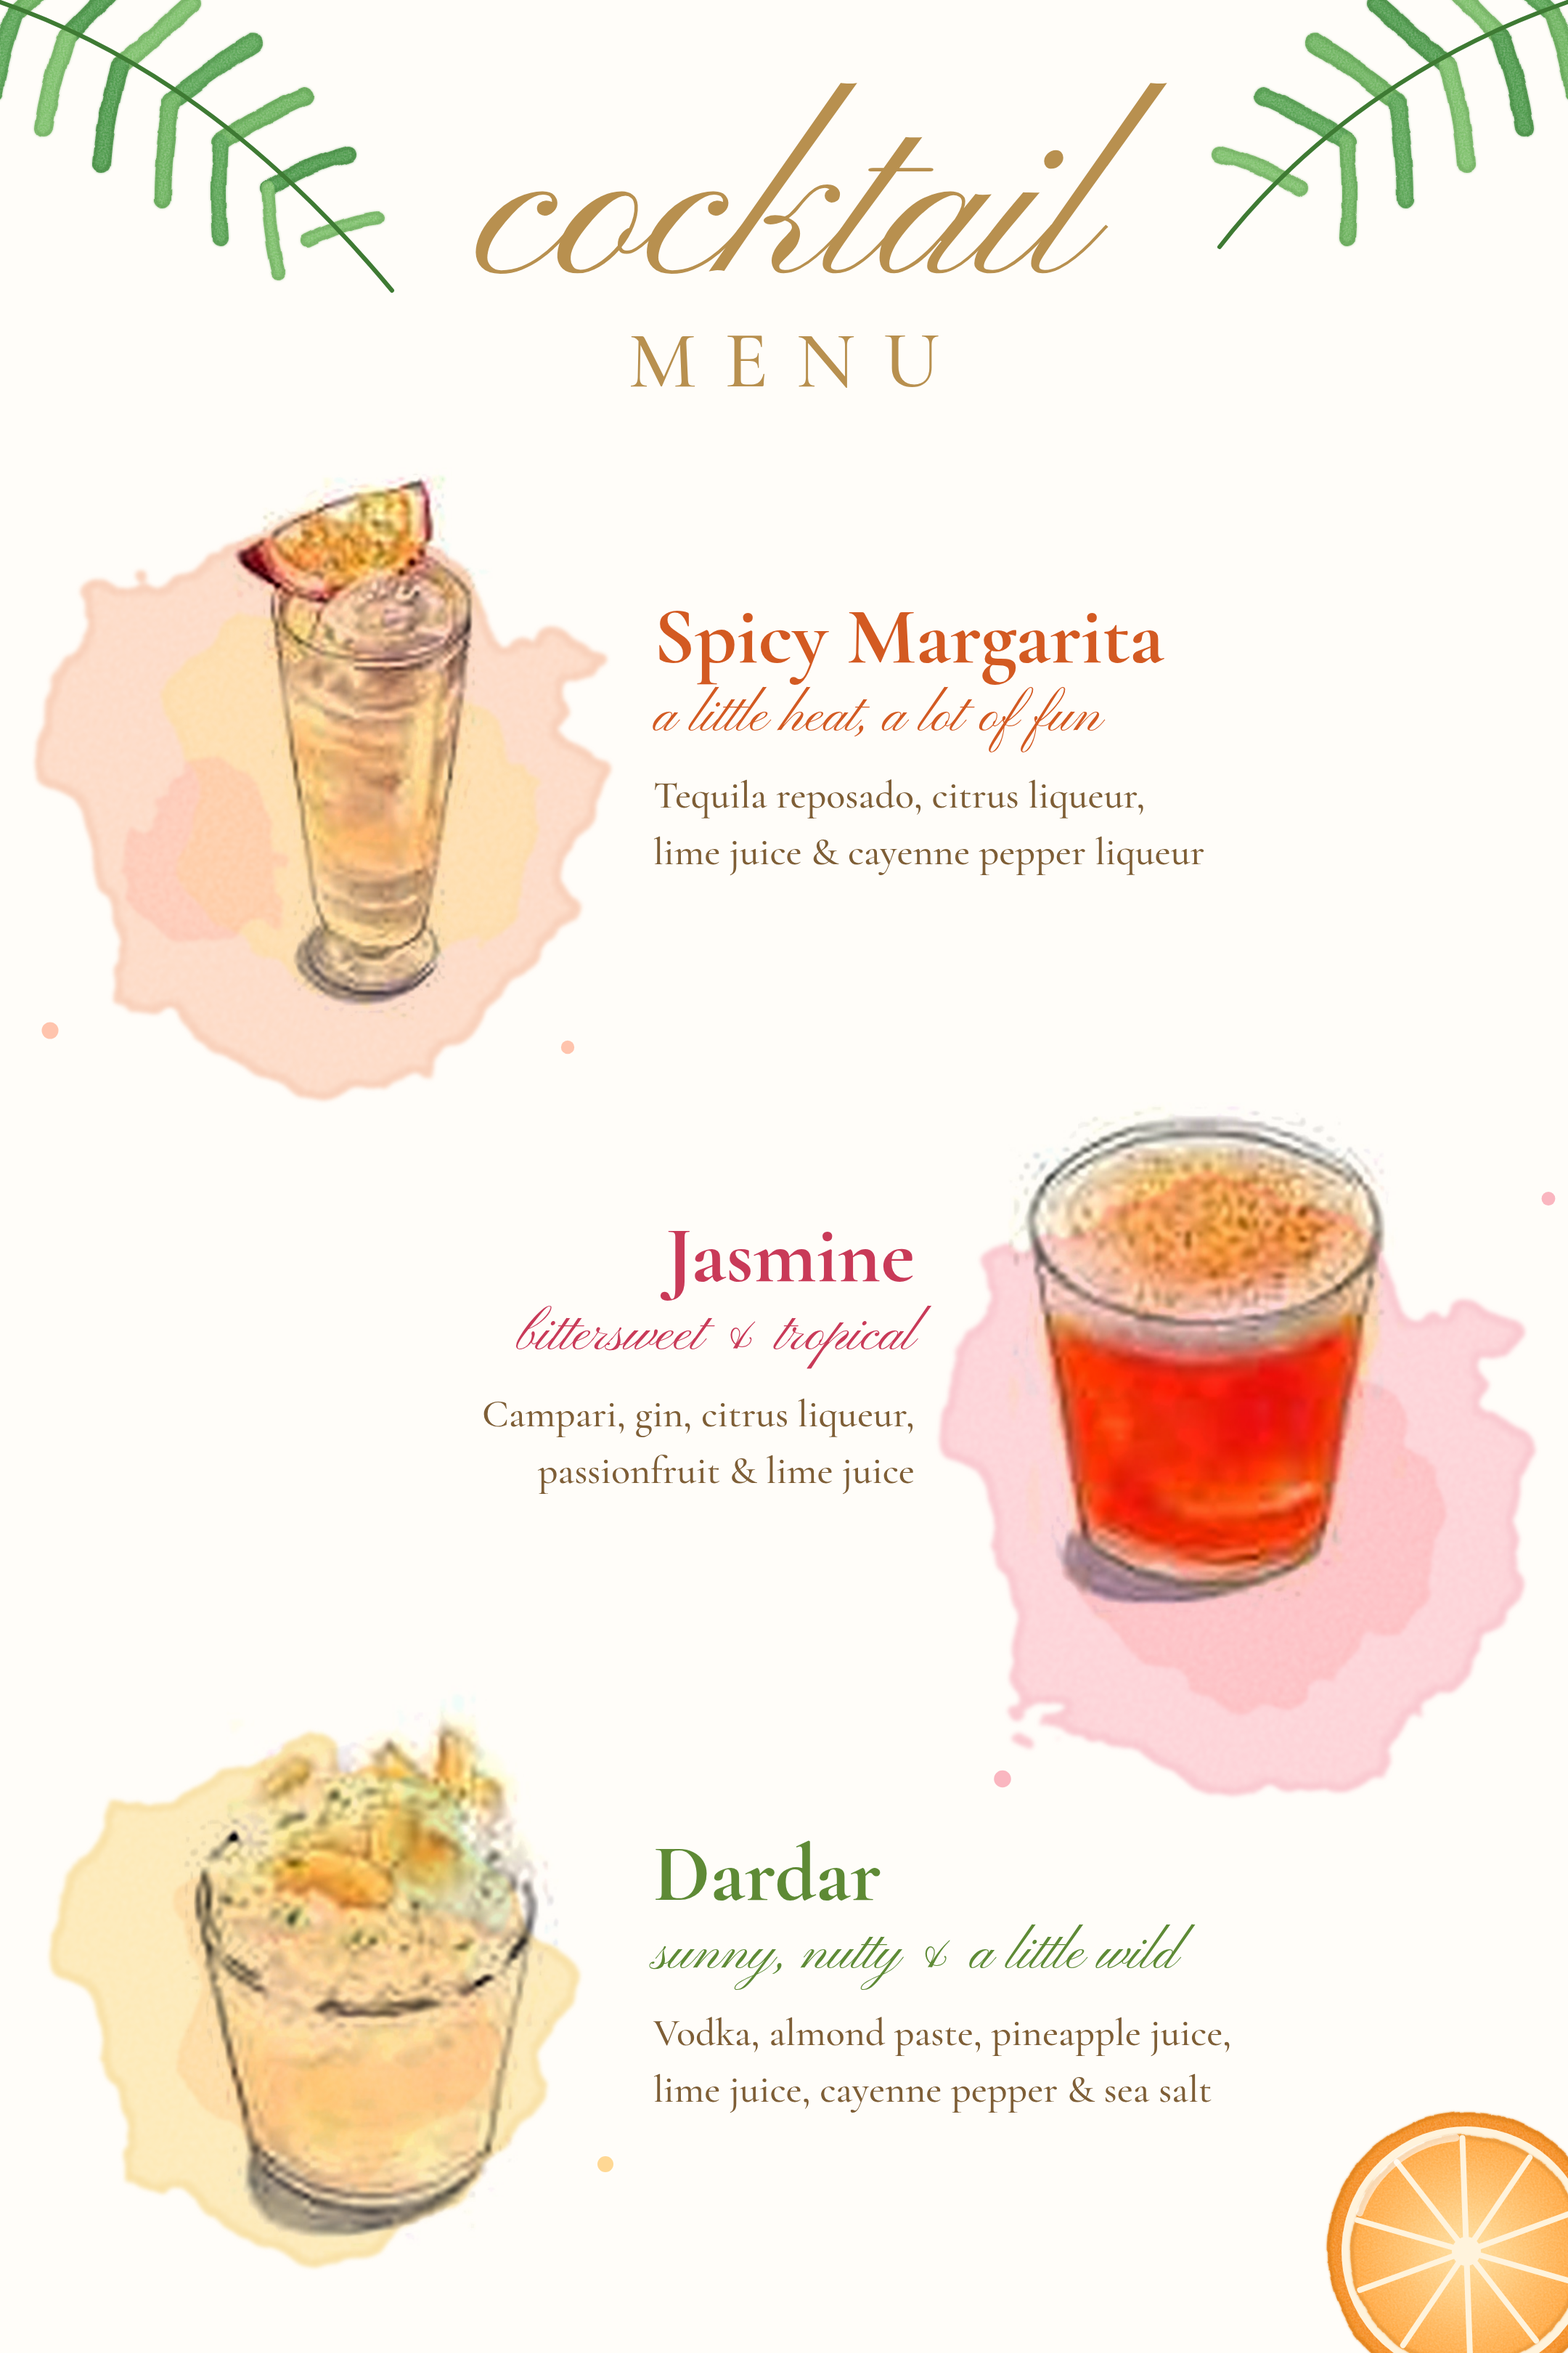
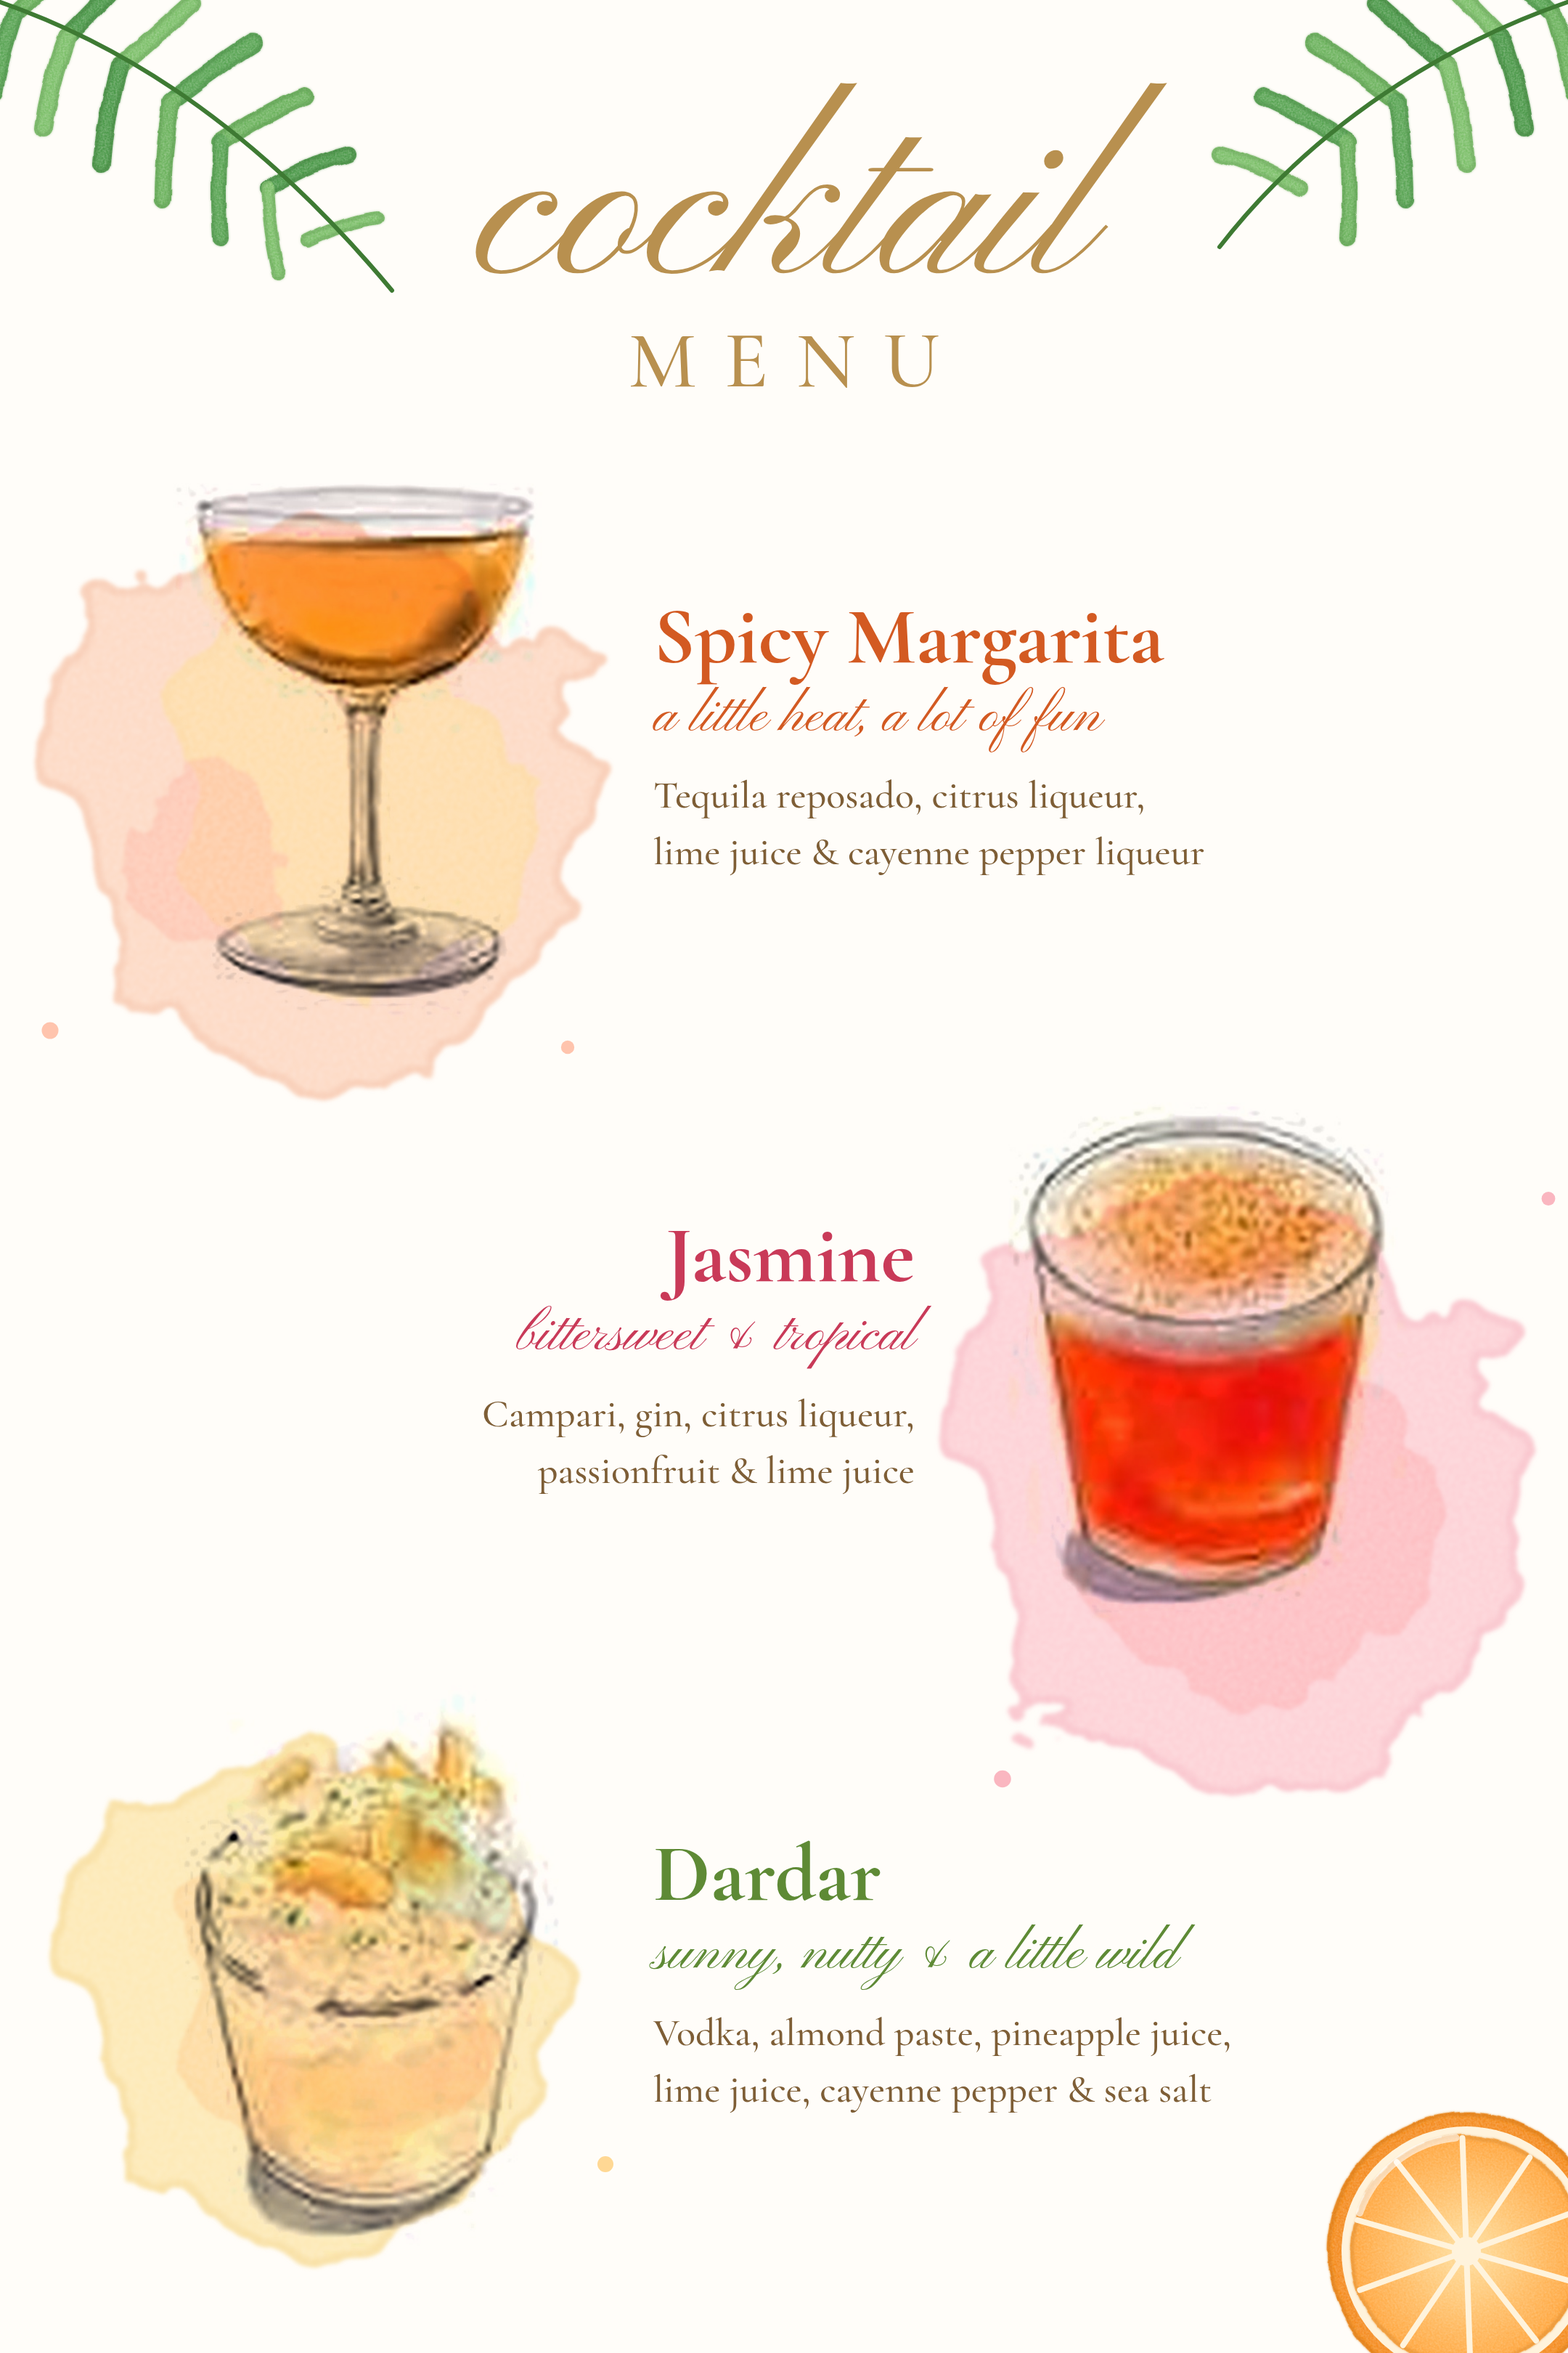
Poster: Spicy Margarita in a coupe glass
Claude-Session: https://claude.ai/code/session_01HYkb5V22HkBGdt4293FLKk

Changed region(s): [[0.1241, 0.187, 0.3412, 0.4364]]

diff --git a/posters/cocktails/poster.html b/posters/cocktails/poster.html
@@ -144,7 +144,7 @@ a{color:#B8904F}a:hover{color:#8C6A3E}
 </header>
 
 <section style="position: relative; display: flex; align-items: center; gap: 36px">
-<img src="images/margarita.jpg" alt="Spicy Margarita in a tall glass with a passionfruit half" style="flex-shrink: 0; width: 330px; height: 400px; object-fit: contain; mix-blend-mode: multiply">
+<img src="images/margarita.jpg" alt="Spicy Margarita in a coupe glass" style="flex-shrink: 0; width: 330px; height: 400px; object-fit: contain; mix-blend-mode: multiply">
 <div style="display: flex; flex-direction: column; gap: 8px; max-width: 520px">
 <h2 style="margin: 0; font-size: 56px; font-weight: 700; line-height: 1; color: #D35A22">Spicy Margarita</h2>
 <div style="font-family: 'Pinyon Script', cursive; font-size: 38px; line-height: 1.1; color: #D35A22">a little heat, a lot of fun</div>
